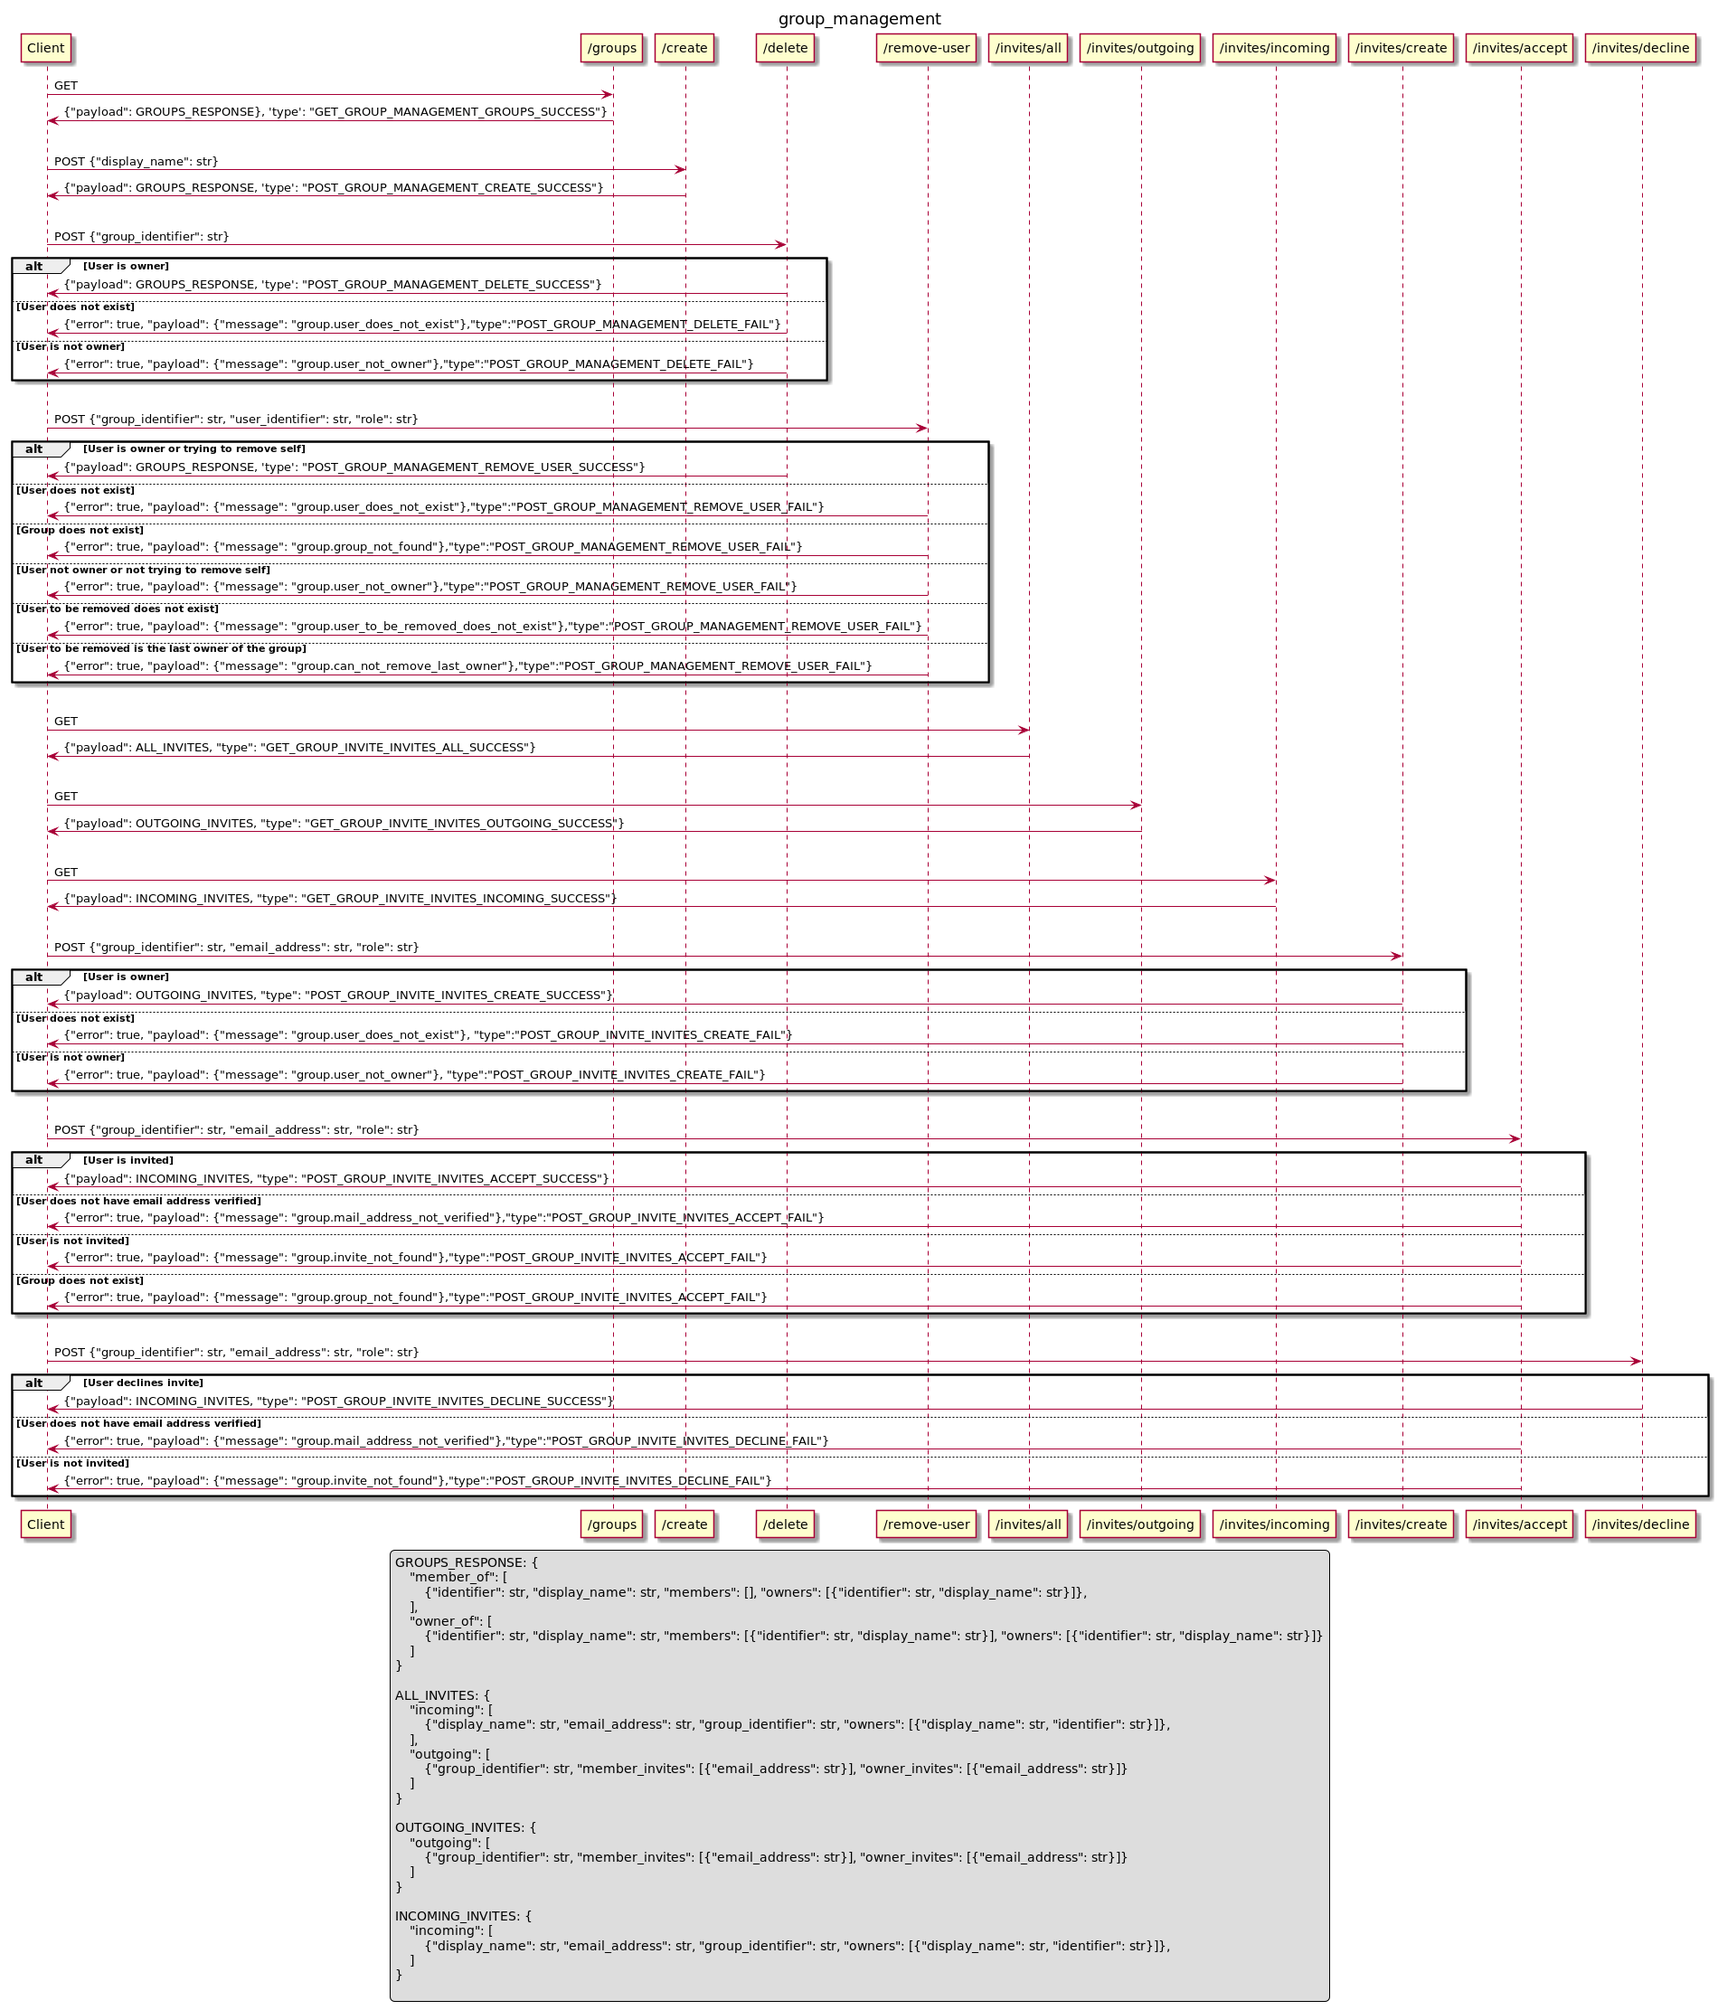
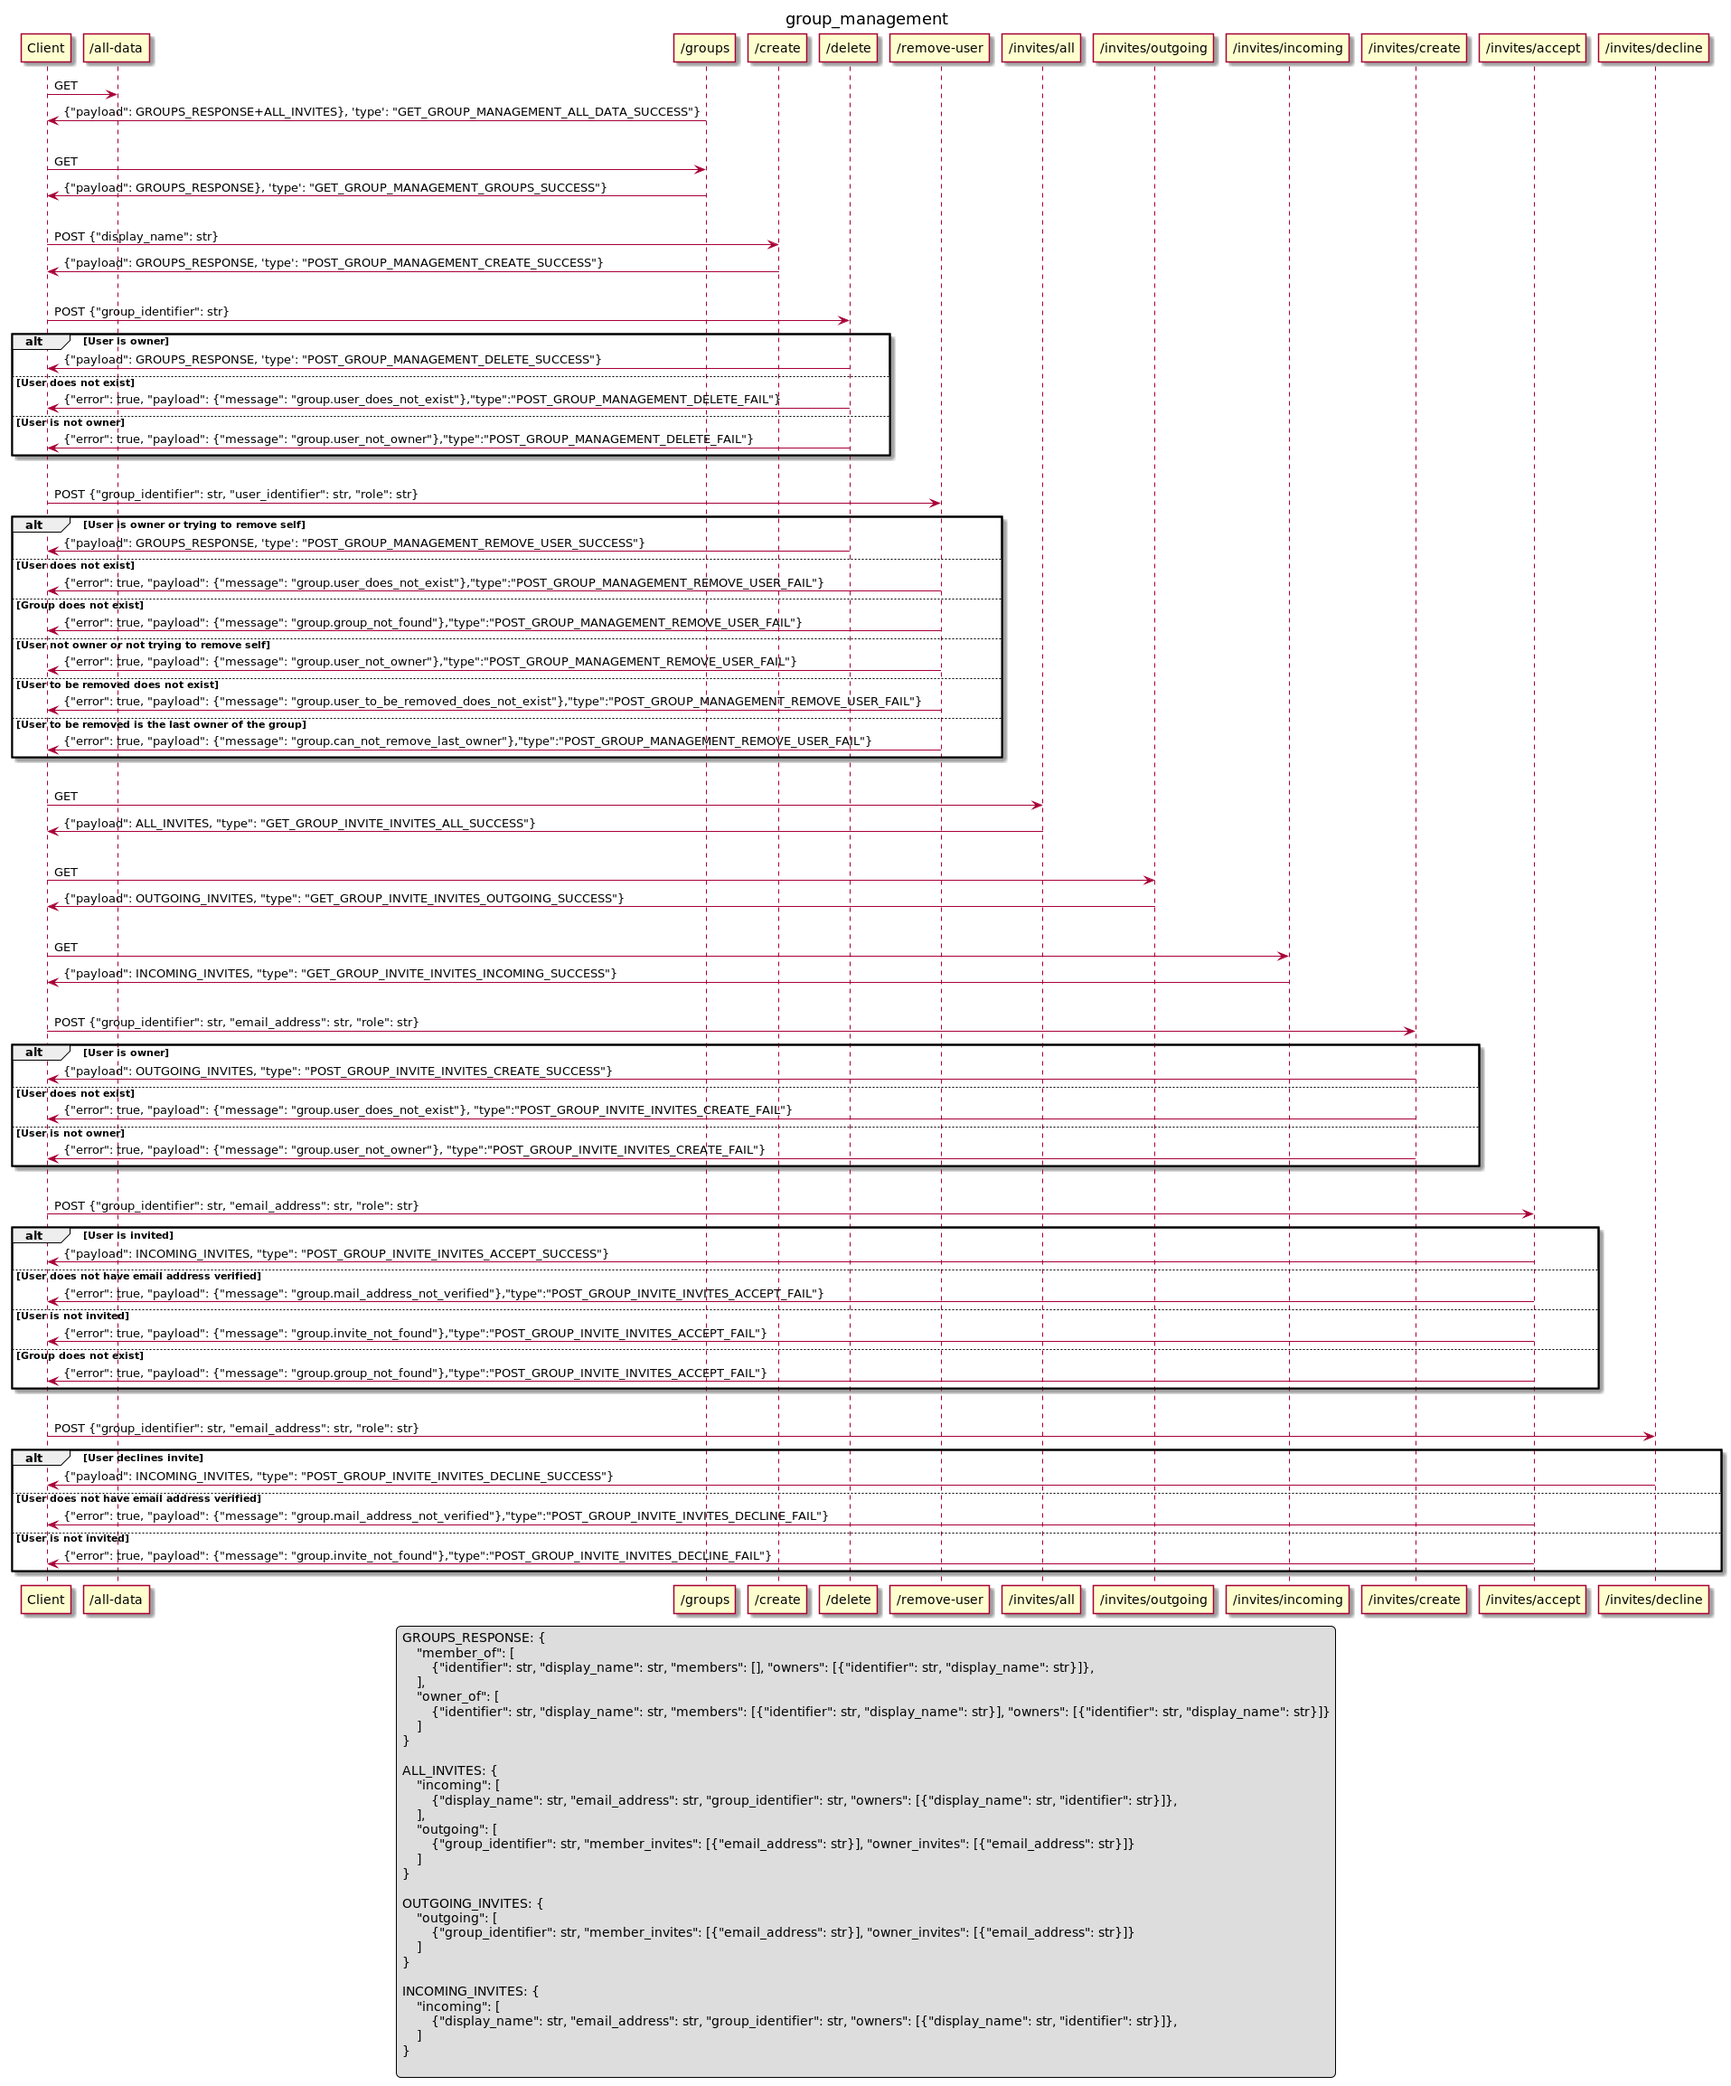
Added get-all endpoint for group data and invites

Changed region(s): [[0.0, 0.0, 1.0, 1.0]]

diff --git a/src/eduid_webapp/group_management/views/group.py b/src/eduid_webapp/group_management/views/group.py
@@ -30,24 +30,24 @@
 # ANY WAY OUT OF THE USE OF THIS SOFTWARE, EVEN IF ADVISED OF THE
 # POSSIBILITY OF SUCH DAMAGE.
 #
-from typing import Dict, List, Mapping
 from uuid import UUID
 
+from eduid_graphdb.groupdb import User as GraphUser
 from flask import Blueprint
 
 from eduid_common.api.decorators import MarshalWith, UnmarshalWith, require_user
 from eduid_common.api.messages import CommonMsg, FluxData, error_response, success_response
-from eduid_graphdb.groupdb import Group as GraphGroup
-from eduid_graphdb.groupdb import User as GraphUser
 from eduid_scimapi.groupdb import ScimApiGroup
 from eduid_userdb import User
 from eduid_userdb.exceptions import EduIDDBError
 from eduid_userdb.group_management import GroupRole
-
 from eduid_webapp.group_management.app import current_group_management_app as current_app
 from eduid_webapp.group_management.helpers import (
     GroupManagementMsg,
+    get_all_group_data,
+    get_incoming_invites,
     get_or_create_scim_user_by_eppn,
+    get_outgoing_invites,
     get_scim_user_by_eppn,
     is_owner,
     remove_user_from_group,
@@ -55,6 +55,7 @@ from eduid_webapp.group_management.helpers import (
 from eduid_webapp.group_management.schemas import (
     GroupCreateRequestSchema,
     GroupDeleteRequestSchema,
+    GroupManagementAllDataResponseSchema,
     GroupManagementResponseSchema,
     GroupRemoveUserRequestSchema,
 )
@@ -64,22 +65,18 @@ __author__ = 'lundberg'
 group_management_views = Blueprint('group_management', __name__, url_prefix='', template_folder='templates')
 
 
-def _list_of_group_data(group_list: List[ScimApiGroup]) -> List[Dict]:
-    ret = []
-    for group in group_list:
-        members = [
-            {'identifier': member.identifier, 'display_name': member.display_name} for member in group.graph.members
-        ]
-        owners = [{'identifier': owner.identifier, 'display_name': owner.display_name} for owner in group.graph.owners]
-        group_data = {
-            'identifier': group.scim_id,
-            'display_name': group.display_name,
-            'members': members,
-            'owners': owners,
-        }
-        current_app.logger.debug(f'Group data: {group_data}')
-        ret.append(group_data)
-    return ret
+@group_management_views.route('/all-data', methods=['GET'])
+@MarshalWith(GroupManagementAllDataResponseSchema)
+@require_user
+def get_all_data(user: User) -> FluxData:
+    payload = {}
+    scim_user = get_scim_user_by_eppn(user.eppn)
+    if scim_user:
+        # The user can only have group data if there is a scim user
+        payload.update(get_all_group_data(scim_user))
+    # Update payload with incoming and outgoing invites
+    payload.update({'incoming': get_incoming_invites(user), 'outgoing': get_outgoing_invites(user)})
+    return success_response(payload=payload)
 
 
 @group_management_views.route('/groups', methods=['GET'])
@@ -91,14 +88,8 @@ def get_groups(user: User) -> FluxData:
         current_app.logger.info('User does not exist in scimapi_userdb')
         # As the user does not exist return empty group lists
         return success_response(payload={})
-
-    member_groups = current_app.scimapi_groupdb.get_groups_for_user_identifer(scim_user.scim_id)
-    owner_groups = current_app.scimapi_groupdb.get_groups_owned_by_user_identifier(scim_user.scim_id)
-    current_app.logger.debug(f'member_of: {member_groups}')
-    current_app.logger.debug(f'owner_of: {owner_groups}')
-    return success_response(
-        payload={'member_of': _list_of_group_data(member_groups), 'owner_of': _list_of_group_data(owner_groups)}
-    )
+    payload = get_all_group_data(scim_user)
+    return success_response(payload=payload)
 
 
 @group_management_views.route('/create', methods=['POST'])

diff --git a/src/eduid_webapp/group_management/helpers.py b/src/eduid_webapp/group_management/helpers.py
@@ -3,18 +3,17 @@ from enum import unique
 from typing import Any, Dict, List, Optional
 from uuid import UUID
 
+from eduid_graphdb.groupdb import User as GraphUser
 from flask_babel import gettext as _
 
 from eduid_common.api.exceptions import MailTaskFailed
 from eduid_common.api.helpers import send_mail
 from eduid_common.api.messages import TranslatableMsg
-from eduid_graphdb.groupdb import User as GraphUser
 from eduid_scimapi.groupdb import ScimApiGroup
 from eduid_scimapi.userdb import ScimApiUser
 from eduid_userdb import User
 from eduid_userdb.exceptions import DocumentDoesNotExist, EduIDDBError
 from eduid_userdb.group_management import GroupInviteState
-
 from eduid_webapp.group_management.app import current_group_management_app as current_app
 from eduid_webapp.group_management.schemas import GroupRole
 
@@ -54,6 +53,32 @@ def get_or_create_scim_user_by_eppn(eppn: str) -> ScimApiUser:
     return scim_user
 
 
+def list_of_group_data(group_list: List[ScimApiGroup]) -> List[Dict]:
+    ret = []
+    for group in group_list:
+        members = [
+            {'identifier': member.identifier, 'display_name': member.display_name} for member in group.graph.members
+        ]
+        owners = [{'identifier': owner.identifier, 'display_name': owner.display_name} for owner in group.graph.owners]
+        group_data = {
+            'identifier': group.scim_id,
+            'display_name': group.display_name,
+            'members': members,
+            'owners': owners,
+        }
+        current_app.logger.debug(f'Group data: {group_data}')
+        ret.append(group_data)
+    return ret
+
+
+def get_all_group_data(scim_user: ScimApiUser) -> Dict[str, Any]:
+    member_groups = current_app.scimapi_groupdb.get_groups_for_user_identifer(scim_user.scim_id)
+    owner_groups = current_app.scimapi_groupdb.get_groups_owned_by_user_identifier(scim_user.scim_id)
+    current_app.logger.debug(f'member_of: {member_groups}')
+    current_app.logger.debug(f'owner_of: {owner_groups}')
+    return {'member_of': list_of_group_data(member_groups), 'owner_of': list_of_group_data(owner_groups)}
+
+
 def is_owner(scim_user: ScimApiUser, group_id: UUID) -> bool:
     owner_groups = current_app.scimapi_groupdb.get_groups_owned_by_user_identifier(scim_user.scim_id)
     return group_id in [owner_group.scim_id for owner_group in owner_groups]
@@ -90,13 +115,15 @@ def remove_user_from_group(scim_user: ScimApiUser, scim_group: ScimApiGroup, rol
     modified = False
     if role == GroupRole.OWNER:
         if is_owner(scim_user, scim_group.scim_id):
-            scim_group.owners = set([owner for owner in scim_group.owners if owner.identifier != str(scim_user.scim_id)])
+            scim_group.owners = set(
+                [owner for owner in scim_group.owners if owner.identifier != str(scim_user.scim_id)]
+            )
             modified = True
     elif role == GroupRole.MEMBER:
         if is_member(scim_user, scim_group.scim_id):
-            scim_group.members = set([
-                member for member in scim_group.members if member.identifier != str(scim_user.scim_id)
-            ])
+            scim_group.members = set(
+                [member for member in scim_group.members if member.identifier != str(scim_user.scim_id)]
+            )
             modified = True
     else:
         raise NotImplementedError(f'Unknown role: {role}')

diff --git a/src/eduid_webapp/group_management/tests/test_app.py b/src/eduid_webapp/group_management/tests/test_app.py
@@ -875,3 +875,33 @@ class GroupManagementTests(EduidAPITestCase):
             assert self.test_user3.mail_addresses.primary.email == invite['email_address']
             assert 1 == len(invite['owners'])
             assert GroupRole.MEMBER.value == invite['role']
+
+    def test_get_all_data(self):
+        response = self.browser.get('/all-data')
+        assert 302 == response.status_code  # Redirect to token service
+
+        self._invite_setup()
+
+        # Test with owner and invited
+        with self.session_cookie(self.browser, self.test_user.eppn) as client:
+            response = client.get('/all-data', content_type=self.content_type_json)
+        self._check_success_response(response, type_='GET_GROUP_MANAGEMENT_ALL_DATA_SUCCESS')
+        payload = response.json.get('payload')
+        assert 2 == len(payload['outgoing'])
+        assert 2 == len(payload['owner_of'])
+
+        # Accept member invite as test user 2
+        self._accept_invite(
+            group_scim_id=str(self.scim_group1.scim_id),
+            invitee=self.test_user2,
+            invite_address=self.test_user2.mail_addresses.primary.email,
+            role='member',
+        )
+
+        # Test with member and invitee
+        with self.session_cookie(self.browser, self.test_user2.eppn) as client:
+            response = client.get('/all-data', content_type=self.content_type_json)
+        self._check_success_response(response, type_='GET_GROUP_MANAGEMENT_ALL_DATA_SUCCESS')
+        payload = response.json.get('payload')
+        assert 1 == len(payload['incoming'])
+        assert 1 == len(payload['member_of'])

diff --git a/src/eduid_webapp/group_management/schemas.py b/src/eduid_webapp/group_management/schemas.py
@@ -133,3 +133,13 @@ class GroupAllInviteResponseSchema(FluxStandardAction):
         outgoing = fields.Nested(OutgoingInvite, many=True)
 
     payload = fields.Nested(GroupInviteResponsePayload)
+
+
+class GroupManagementAllDataResponseSchema(FluxStandardAction):
+    class CombinedGroupDataInviteDataPayload(EduidSchema, CSRFResponseMixin):
+        member_of = fields.Nested(Group, default=[], many=True)
+        owner_of = fields.Nested(Group, default=[], many=True)
+        incoming = fields.Nested(IncomingInvite, many=True)
+        outgoing = fields.Nested(OutgoingInvite, many=True)
+
+    payload = fields.Nested(CombinedGroupDataInviteDataPayload)
